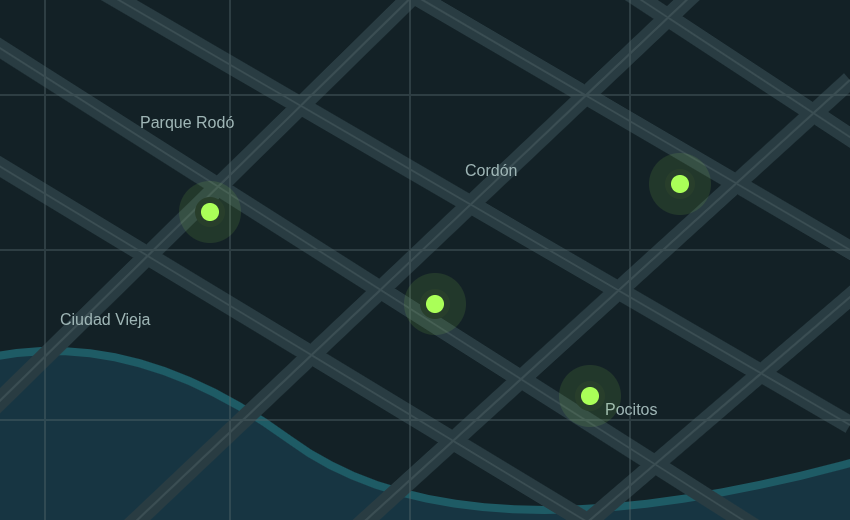
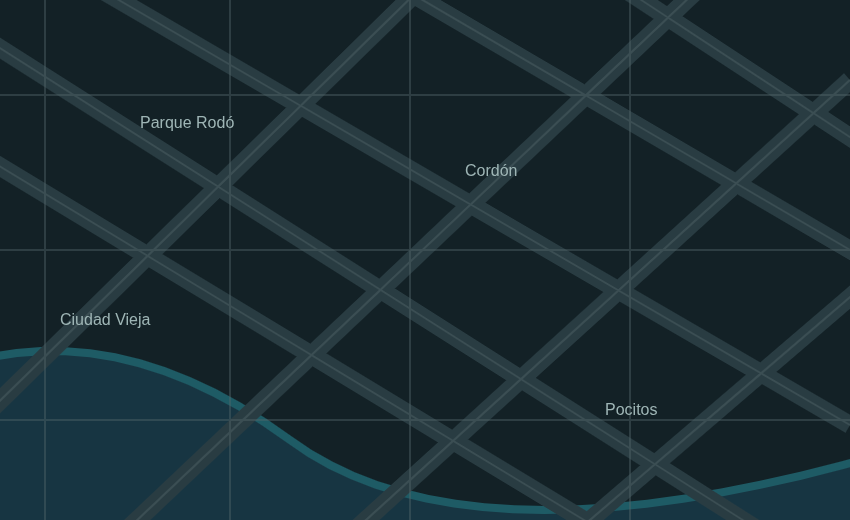
Preserve homepage map proportions and use native music markers

diff --git a/web/sw.js b/web/sw.js
@@ -1,4 +1,4 @@
-const CACHE="toca-shell-8dd10aeef9542169";const SHELL=["/", "/index.html", "/manifest.webmanifest", "/assets/icon.svg", "/styles.css", "/toca.css?v=admin-width-1", "/toca-admin-clean.css?v=1735", "/toca-dashboard-controls.css?v=1737", "/toca-mibar-v174.css?v=174", "/toca-hours-v175.css?v=176", "/toca-v180.css?v=180", "/toca-map-credits-v181.css?v=181", "/toca-location-v184.css?v=184", "/toca-v184.css?v=184", "/toca-v185.css?v=185", "/toca-location-v1810.css?v=1810", "/toca-description-v1811.css?v=1811", "/toca-artwork-v1813.css?v=1813", "/toca-now-v1816.css?v=1816", "/toca-playlist-v1820.css?v=1820", "/toca-playlist-scroll-v1821.css?v=1821", "/toca-how-v1823.css?v=1823", "/toca-customer-v1826.css?v=1826", "/toca-presence-v1827.css?v=1827", "/toca-access-layout-v1829.css?v=1829", "/toca-cleanup-v1830.css?v=1830", "/toca-mi-bar-cards-v1839.css?v=1839", "/toca-spacing-v1840.css?v=1840", "/toca-profile-v1841.css?v=1841", "/toca-map-hover-v1845.css?v=1845", "/toca-google-v1847.css?v=1847", "/admin-profile.css?v=1", "/account.css?v=1", "/music-cabina.css?v=number-heading-1", "/venue-import.css?v=bio-hours-1", "/venue-onboarding.css?v=1", "/venue-profile.css?v=admin-width-1", "/venue-gallery.css?v=1", "/customer-wallet.css?v=brand-colors-3", "/bar-dashboard.css?v=1", "/map-place-panel.css?v=5", "/landing.css?v=steps-4", "/config.js?v=marketing-1", "/assets/qr.js", "/toca-hours-v175.js?v=176", "/request-sync.js?v=redirect-2", "/app.js?v=resume-after-topup-3", "/map-place-panel.js?v=5", "/toca-map-credits-v181.js?v=181", "/toca-ui.js?v=landing-3", "/bar-dashboard.js?v=1", "/venue-gallery.js?v=1", "/customer-wallet.js?v=resume-after-topup-2", "/toca-customer-v1826.js?v=account-layout-2", "/live-music.js?v=1816", "/venue-location.js?v=onboarding-1", "/toca-location-v1828.js?v=1828", "/toca-v17.js?v=venue-gallery-1", "/toca-v1738.js?v=1738", "/toca-v1739.js?v=1739", "/toca-artwork-v1813.js?v=1813", "/toca-now-v1816.js?v=1816", "/toca-playlist-v1820.js?v=1821", "/toca-presence-v1827.js?v=presence-recovery-1", "/toca-admin-access-v1829.js?v=distance-1", "/toca-cleanup-v1830.js?v=1830", "/toca-mi-bar-cards-v1839.js?v=1839", "/toca-profile-v1841.js?v=tokens-1", "/toca-google-v1847.js?v=1847b", "/account.js?v=2", "/map-loader.js?v=distance-map-1", "/landing.js?v=steps-4", "/runtime.js?v=3", "/admin-profile.js?v=1", "/bio-hours.js?v=1", "/venue-import.js?v=profile-sections-1", "/music-cabina.js?v=number-heading-1", "/music-cabina-drag.js?v=drag-2", "/music-edit-intent.js?v=1", "/music-playback.js?v=1", "/admin-music.js?v=playlist-edits-3", "/venue-onboarding.js?v=profile-sections-1", "/venue-profile.js?v=hours-2", "/assets/toca-home-map.svg", "/assets/venues/bar-1.webp", "/assets/venues/bar-2.webp", "/assets/venues/bar-3.webp", "/assets/venues/bar-4.webp", "/assets/venues/bar-5.webp", "/assets/venues/bar-6.webp", "/assets/landing/explore.png", "/assets/landing/search.png", "/assets/landing/tokens.png", "/assets/landing/success.png", "/assets/landing/admin-music.png"];
+const CACHE="toca-shell-320a839a15c1ad41";const SHELL=["/", "/index.html", "/manifest.webmanifest", "/assets/icon.svg", "/styles.css", "/toca.css?v=admin-width-1", "/toca-admin-clean.css?v=1735", "/toca-dashboard-controls.css?v=1737", "/toca-mibar-v174.css?v=174", "/toca-hours-v175.css?v=176", "/toca-v180.css?v=180", "/toca-map-credits-v181.css?v=181", "/toca-location-v184.css?v=184", "/toca-v184.css?v=184", "/toca-v185.css?v=185", "/toca-location-v1810.css?v=1810", "/toca-description-v1811.css?v=1811", "/toca-artwork-v1813.css?v=1813", "/toca-now-v1816.css?v=1816", "/toca-playlist-v1820.css?v=1820", "/toca-playlist-scroll-v1821.css?v=1821", "/toca-how-v1823.css?v=1823", "/toca-customer-v1826.css?v=1826", "/toca-presence-v1827.css?v=1827", "/toca-access-layout-v1829.css?v=1829", "/toca-cleanup-v1830.css?v=1830", "/toca-mi-bar-cards-v1839.css?v=1839", "/toca-spacing-v1840.css?v=1840", "/toca-profile-v1841.css?v=1841", "/toca-map-hover-v1845.css?v=1845", "/toca-google-v1847.css?v=1847", "/admin-profile.css?v=1", "/account.css?v=1", "/music-cabina.css?v=number-heading-1", "/venue-import.css?v=bio-hours-1", "/venue-onboarding.css?v=1", "/venue-profile.css?v=admin-width-1", "/venue-gallery.css?v=1", "/customer-wallet.css?v=brand-colors-3", "/bar-dashboard.css?v=1", "/map-place-panel.css?v=5", "/landing.css?v=steps-4", "/config.js?v=marketing-1", "/assets/qr.js", "/toca-hours-v175.js?v=176", "/request-sync.js?v=redirect-2", "/app.js?v=resume-after-topup-3", "/map-place-panel.js?v=5", "/toca-map-credits-v181.js?v=181", "/toca-ui.js?v=landing-3", "/bar-dashboard.js?v=1", "/venue-gallery.js?v=1", "/customer-wallet.js?v=resume-after-topup-2", "/toca-customer-v1826.js?v=account-layout-2", "/live-music.js?v=1816", "/venue-location.js?v=onboarding-1", "/toca-location-v1828.js?v=1828", "/toca-v17.js?v=venue-gallery-1", "/toca-v1738.js?v=1738", "/toca-v1739.js?v=1739", "/toca-artwork-v1813.js?v=1813", "/toca-now-v1816.js?v=1816", "/toca-playlist-v1820.js?v=1821", "/toca-presence-v1827.js?v=presence-recovery-1", "/toca-admin-access-v1829.js?v=distance-1", "/toca-cleanup-v1830.js?v=1830", "/toca-mi-bar-cards-v1839.js?v=1839", "/toca-profile-v1841.js?v=tokens-1", "/toca-google-v1847.js?v=1847b", "/account.js?v=2", "/map-loader.js?v=distance-map-1", "/landing.js?v=steps-4", "/runtime.js?v=3", "/admin-profile.js?v=1", "/bio-hours.js?v=1", "/venue-import.js?v=profile-sections-1", "/music-cabina.js?v=number-heading-1", "/music-cabina-drag.js?v=drag-2", "/music-edit-intent.js?v=1", "/music-playback.js?v=1", "/admin-music.js?v=playlist-edits-3", "/venue-onboarding.js?v=profile-sections-1", "/venue-profile.js?v=hours-2", "/assets/toca-home-map.svg", "/assets/venues/bar-1.webp", "/assets/venues/bar-2.webp", "/assets/venues/bar-3.webp", "/assets/venues/bar-4.webp", "/assets/venues/bar-5.webp", "/assets/venues/bar-6.webp", "/assets/landing/explore.png", "/assets/landing/search.png", "/assets/landing/tokens.png", "/assets/landing/success.png", "/assets/landing/admin-music.png"];
 self.addEventListener('install',e=>e.waitUntil(caches.open(CACHE).then(c=>c.addAll(SHELL)).then(()=>self.skipWaiting())));
 self.addEventListener('activate',e=>e.waitUntil(caches.keys().then(keys=>Promise.all(keys.filter(k=>k.startsWith('toca-shell-')&&k!==CACHE).map(k=>caches.delete(k)))).then(()=>self.clients.claim())));
 self.addEventListener('fetch',e=>{const u=new URL(e.request.url);if(e.request.method!=='GET'||u.origin!==location.origin||u.pathname.startsWith('/api/'))return;

diff --git a/scripts/capture-landing-screens.py b/scripts/capture-landing-screens.py
@@ -1,5 +1,5 @@
 """Capture current app screens with synthetic fixtures for the public site's walkthrough."""
-import functools,json,threading
+import functools,json,math,threading
 from pathlib import Path
 from urllib.parse import urlsplit
 from http.server import SimpleHTTPRequestHandler,ThreadingHTTPServer
@@ -13,6 +13,15 @@ CDN='https://cdn.jsdelivr.net/npm/'
 sdk={CDN+p:MAP/n for p,n in [('leaflet@1.9.4/dist/leaflet.js','leaflet.js'),('leaflet@1.9.4/dist/leaflet.css','leaflet.css'),('maplibre-gl@5.24.0/dist/maplibre-gl.js','maplibre.js'),('maplibre-gl@5.24.0/dist/maplibre-gl.css','maplibre.css'),('@maplibre/maplibre-gl-leaflet@0.1.4/leaflet-maplibre-gl.js','bridge.js')]}
 PHOTO=f'/api/venues/{ID}/photos/marketing-fixture'
 venue=dict(id=ID,name='Bar Central',city='Montevideo',address='Avenida Principal 123',latitude=-34.9078,longitude=-56.2012,genre='Rock, Cumbia',description='Un lugar para encontrarse, compartir música y hacer de cada noche una buena historia.',instagramHandle='',active=True,published=True,spotifyConnected=True,requestAccessMode='ANYWHERE',coverPhotoUrl=PHOTO,photos=[dict(id='cover',url=PHOTO)])
+venues=[venue,dict(venue,id='88888888-8888-4888-8888-888888888888',name='Bar del Parque',latitude=venue['latitude']+.010,longitude=venue['longitude']-.017),dict(venue,id='99999999-9999-4999-8999-999999999999',name='Bar de la Esquina',latitude=venue['latitude']+.014,longitude=venue['longitude']+.019)]
+# Match the 850:520 background's aspect ratio in Web Mercator, not raw lat/lon.
+# The map renderer then preserves street and text proportions at every zoom.
+span=.16;center_y=math.log(math.tan(math.pi/4+math.radians(venue['latitude'])/2))
+half_y=math.radians(span)*520/850/2
+north=math.degrees(2*math.atan(math.exp(center_y+half_y))-math.pi/2)
+south=math.degrees(2*math.atan(math.exp(center_y-half_y))-math.pi/2)
+west,east=venue['longitude']-span/2,venue['longitude']+span/2
+map_corners=[[west,north],[east,north],[east,south],[west,south]]
 tracks=[dict(id=letter*22,title=title,artist=artist,durationMs=duration,imageUrl=BASE+'/assets/landing/track-cover.svg') for letter,title,artist,duration in [('A','Original Prankster','The Offspring, Redman',221000),('B','Get Lucky','Daft Punk, Pharrell Williams',369000),('C','Midnight City','M83',243000),('D','Like a Prayer','Madonna',345000)]]
 model={'balance':0}
 with sync_playwright() as p:
@@ -27,7 +36,7 @@ with sync_playwright() as p:
   if url in sdk:return route.fulfill(body=sdk[url].read_bytes(),content_type='text/css' if url.endswith('.css') else 'text/javascript')
   if path==PHOTO:return route.fulfill(body=(ROOT/'web/assets/venues/bar-1.webp').read_bytes(),content_type='image/webp',headers={'Access-Control-Allow-Origin':'*'})
   if url.startswith('https://tiles.versatiles.org/'):
-   return reply(route,dict(version=8,sources={'illustration':dict(type='image',url=BASE+'/assets/landing/map-demo.png',coordinates=[[-56.24,-34.86],[-56.10,-34.86],[-56.10,-34.95],[-56.24,-34.95]])},layers=[dict(id='background',type='background',paint={'background-color':'#101d20'}),dict(id='map',type='raster',source='illustration')]))
+   return reply(route,dict(version=8,sources={'illustration':dict(type='image',url=BASE+'/assets/landing/map-demo.png',coordinates=map_corners)},layers=[dict(id='background',type='background',paint={'background-color':'#101d20'}),dict(id='map',type='raster',source='illustration')]))
   if url.startswith(BASE):return route.continue_()
   if not url.startswith('http://localhost:8080'):return route.abort()
   if req.method=='OPTIONS':return reply(route,{})
@@ -37,7 +46,7 @@ with sync_playwright() as p:
   if path.endswith('/requests') and req.method=='POST':model['balance']-=1;return reply(route,dict(status='DISPATCHED',commandId='marketing-request'))
   if path.endswith('/presence'):return reply(route,dict(allowed=True,mode='ANYWHERE'))
   if path.endswith('/google/config'):return reply(route,dict(enabled=False,clientId=''))
-  if path=='/api/venues':return reply(route,[venue])
+  if path=='/api/venues':return reply(route,venues)
   if path==f'/api/venues/{ID}':return reply(route,venue)
   if path.endswith('/tracks'):return reply(route,tracks)
   if path.endswith('/playback'):return reply(route,dict(active=True,isPlaying=True,now=tracks[2]))
@@ -49,7 +58,7 @@ with sync_playwright() as p:
   if path.endswith('/music/player'):return reply(route,dict(now=tracks[2],isPlaying=True,contextUri='spotify:playlist:'+'P'*22,progressMs=76000,shuffle=False,repeat='off',device=dict(id='browser',name='TOCÁ · Bar Central',volume=65)))
   return reply(route,[])
  page.route('**/*',api)
- page.set_viewport_size(dict(width=850,height=520));page.goto(BASE+'/assets/toca-home-map.svg');page.locator('svg').screenshot(path=str(OUT/'map-demo.png'));page.set_viewport_size(dict(width=390,height=780))
+ page.set_viewport_size(dict(width=850,height=520));page.goto(BASE+'/assets/landing/map-background.svg');page.locator('svg').screenshot(path=str(OUT/'map-demo.png'));page.set_viewport_size(dict(width=390,height=780))
  page.goto(BASE+'/#/explore')
  try:
   marker=page.get_by_role('button',name='Ver detalles de Bar Central',exact=True);marker.wait_for(timeout=10000)
@@ -59,6 +68,11 @@ with sync_playwright() as p:
  except Exception:
   page.screenshot(path='/tmp/toca-landing-capture-failed.png');print('Capture diagnostics:',errors,logs,page.evaluate('({maps:typeof L,loader:typeof tocaLoadMaps,map:!!state.map})'),page.locator('#app').inner_text()[:300],flush=True);raise
  expect(page.locator('.place-primary')).to_be_visible();page.wait_for_timeout(500)
+ expect(page.locator('.toca-map-venue-pin-v1845')).to_have_count(3)
+ assert page.locator('.toca-map-venue-pin-v1845').all_text_contents()==['♫']*3
+ projected_aspect=page.evaluate("""corners=>{const project=([lon,lat])=>state.map.project([lat,lon]),nw=project(corners[0]),ne=project(corners[1]),sw=project(corners[3]);return (ne.x-nw.x)/(sw.y-nw.y)}""",map_corners)
+ assert math.isclose(projected_aspect,850/520,rel_tol=.0001),'Map background must retain its native proportions after projection'
+ assert page.locator('.toca-map-venue-pin-v1845').evaluate_all("nodes=>nodes.every(node=>{const box=node.getBoundingClientRect();return Math.abs(box.width-box.height)<.01})"),'Music markers must remain circular'
  page.screenshot(path=str(OUT/'explore.png'));page.locator('.place-primary').click();page.locator('#song-search').fill('Original');page.locator('[data-action=request]').first.wait_for();page.wait_for_timeout(200)
  page.screenshot(path=str(OUT/'search.png'));page.locator('[data-action=request]').first.click();panel=page.locator('#toca-token-recharge');expect(panel).to_be_visible();page.wait_for_timeout(200)
  page.screenshot(path=str(OUT/'tokens.png'));panel.locator('label').filter(has=page.locator('input[value="5"]')).click();panel.locator('[data-wallet-topup]').click();expect(page.locator('#toca-song-added')).to_be_visible();page.wait_for_timeout(300)

diff --git a/docs/INICIO.md b/docs/INICIO.md
@@ -12,7 +12,7 @@ El recorrido de cuatro pasos avanza automáticamente cada cinco segundos y vuelv
 - [Inicio en celular](previews/inicio-390.png)
 - [Teléfono de la portada](previews/inicio-celular-propuesta.png)
 
-El teléfono de inicio muestra una captura de la interfaz actual: mapa, ficha del bar, canción que está sonando, botón para pedir temas y navegación inferior. La captura usa un mapa ilustrativo, una portada del proyecto y datos de ejemplo. La ruta `http://localhost:5173/prototypes/home-phone/` conserva una vista del mismo inicio en un iframe, sin modificaciones adicionales.
+El teléfono de inicio muestra una captura de la interfaz actual: mapa, ficha del bar, canción que está sonando, botón para pedir temas y navegación inferior. La captura usa un mapa ilustrativo, una portada del proyecto y datos de ejemplo. El fondo del mapa conserva su proporción al proyectarse; los tres marcadores de música se renderizan con los componentes de la app. La ruta `http://localhost:5173/prototypes/home-phone/` conserva una vista del mismo inicio en un iframe, sin modificaciones adicionales.
 
 ## Descarga y redes
 
